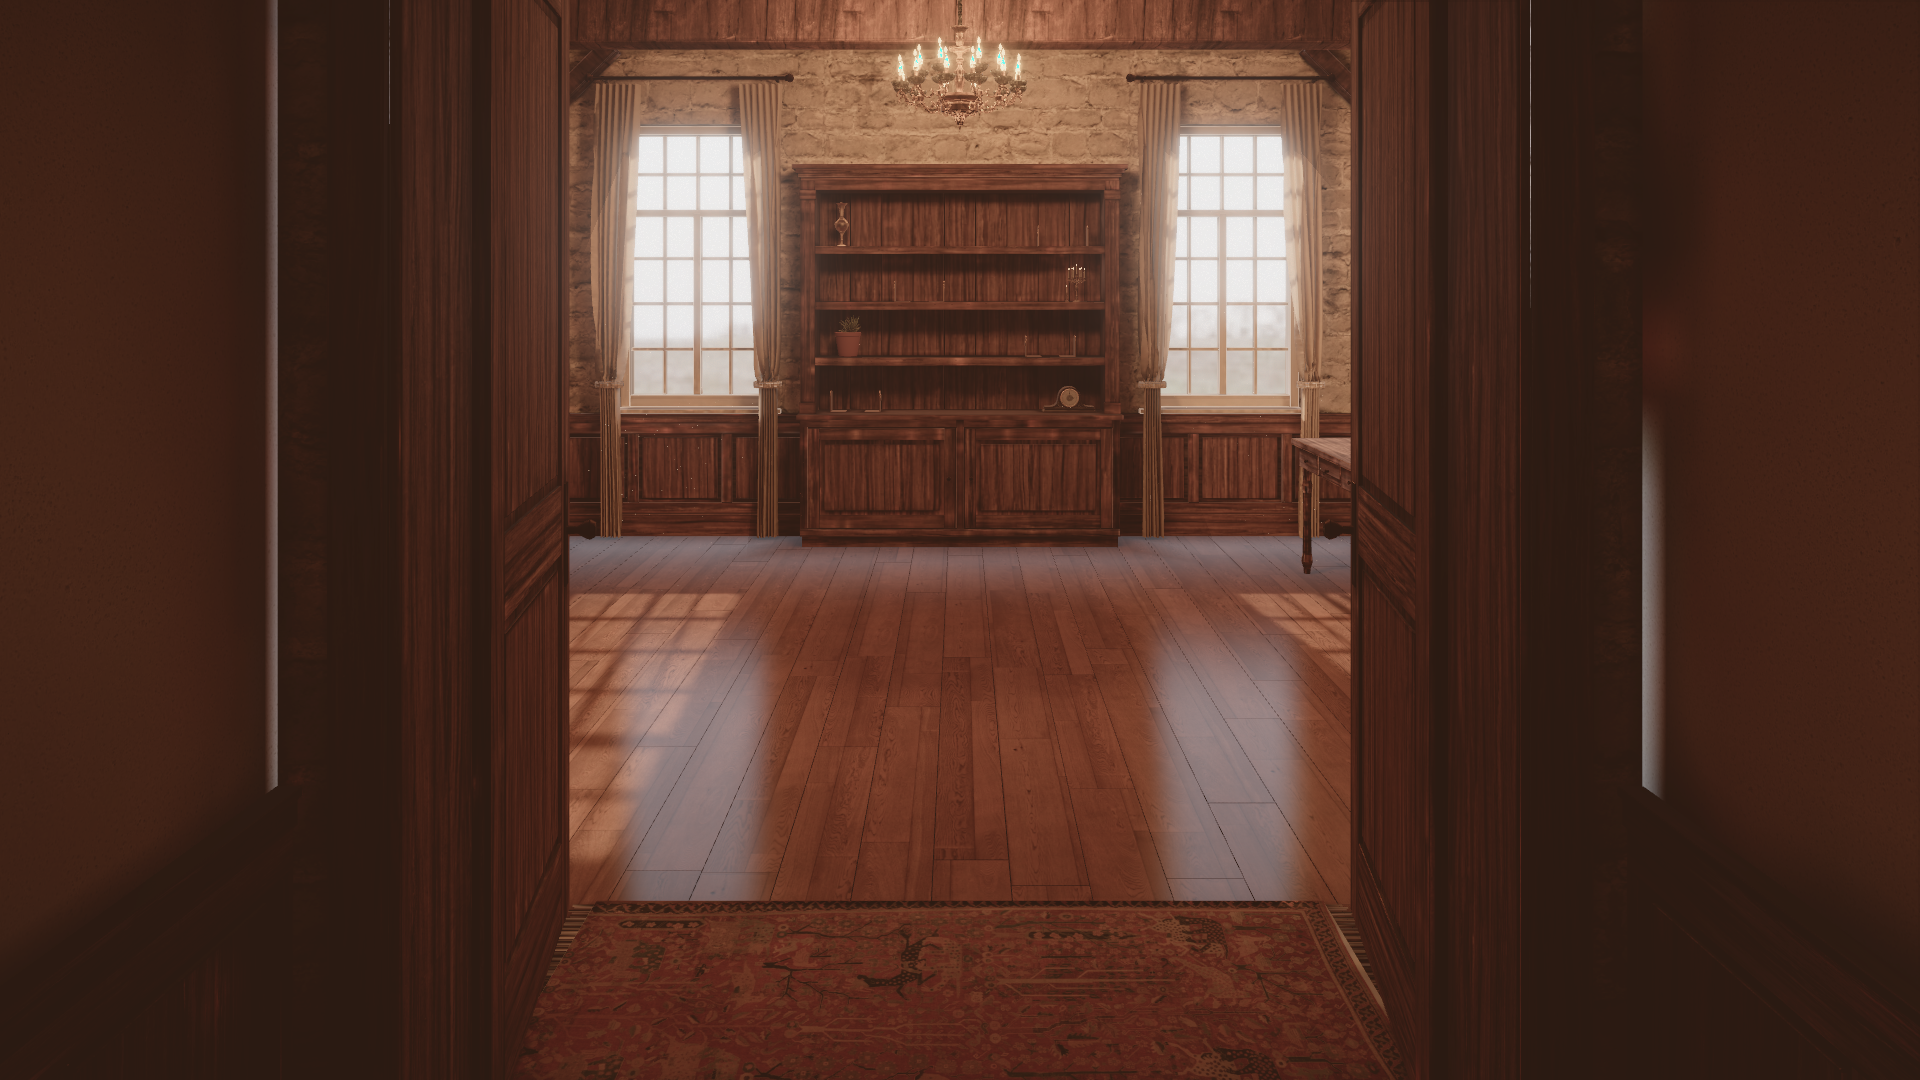
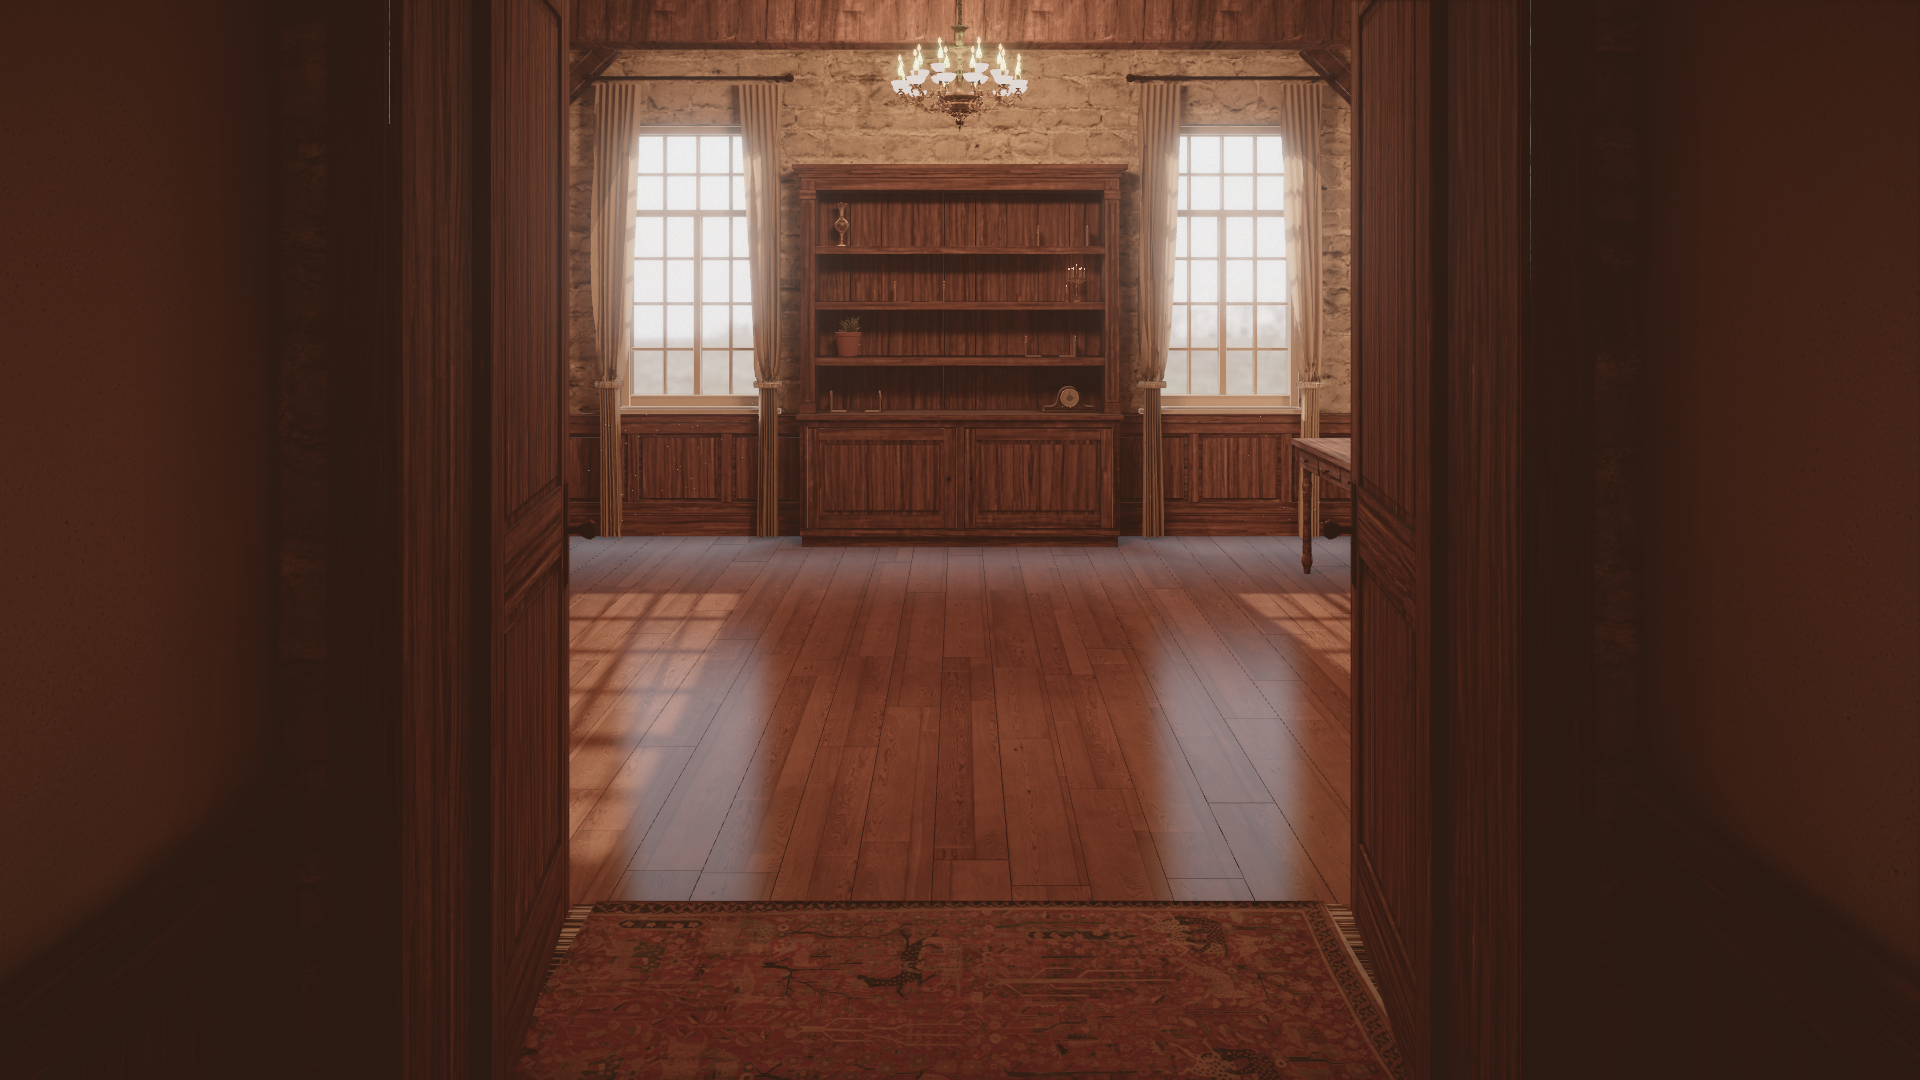
docs: relatório da noite 01, bake final, T7 e T10 concluídas

Changed region(s): [[0.125, 0.0, 0.1562, 0.7333], [0.8438, 0.3972, 0.875, 0.7333], [0.4688, 0.0306, 0.5312, 0.1222]]

diff --git a/scripts/resize-hdr.ts b/scripts/resize-hdr.ts
@@ -1,0 +1,68 @@
+// node --import tsx scripts/resize-hdr.ts <in.hdr> <out.hdr> <width> — box-downsample a Radiance HDR (RGBE).
+import { readFileSync, writeFileSync } from 'node:fs'
+
+const [src, dst, widthArg] = process.argv.slice(2)
+const buf = readFileSync(src)
+let p = 0
+const line = () => {
+  const s = p
+  while (buf[p] !== 0x0a) p++
+  return buf.toString('latin1', s, p++)
+}
+for (let l = line(); l !== ''; l = line()) {
+  // header lines until the blank line
+}
+const [, hy, , wx] = line().split(' ')
+const H = Number(hy)
+const W = Number(wx)
+const img = new Float32Array(W * H * 3)
+for (let y = 0; y < H; y++) {
+  const scan = new Uint8Array(W * 4)
+  if (buf[p] === 2 && buf[p + 1] === 2) {
+    p += 4
+    for (let c = 0; c < 4; c++) {
+      for (let x = 0; x < W; ) {
+        let n = buf[p++]
+        if (n > 128) {
+          n -= 128
+          const v = buf[p++]
+          while (n--) scan[x++ * 4 + c] = v
+        } else while (n--) scan[x++ * 4 + c] = buf[p++]
+      }
+    }
+  } else {
+    scan.set(buf.subarray(p, p + W * 4))
+    p += W * 4
+  }
+  for (let x = 0; x < W; x++) {
+    const e = scan[x * 4 + 3]
+    const f = e ? Math.pow(2, e - 136) : 0
+    for (let c = 0; c < 3; c++) img[(y * W + x) * 3 + c] = scan[x * 4 + c] * f
+  }
+}
+const w = Number(widthArg)
+const h = Math.round((H * w) / W)
+const k = W / w
+const out: number[] = []
+const header = Buffer.from(`#?RADIANCE\nFORMAT=32-bit_rle_rgbe\n\n-Y ${h} +X ${w}\n`, 'latin1')
+for (let y = 0; y < h; y++) {
+  for (let x = 0; x < w; x++) {
+    const acc = [0, 0, 0]
+    let n = 0
+    for (let yy = Math.floor(y * k); yy < Math.floor((y + 1) * k); yy++)
+      for (let xx = Math.floor(x * k); xx < Math.floor((x + 1) * k); xx++) {
+        for (let c = 0; c < 3; c++) acc[c] += img[(yy * W + xx) * 3 + c]
+        n++
+      }
+    const [r, g, b] = acc.map((v) => v / n)
+    const m = Math.max(r, g, b)
+    if (m < 1e-32) out.push(0, 0, 0, 0)
+    else {
+      const e = Math.ceil(Math.log2(m))
+      const s = 256 / Math.pow(2, e)
+      out.push(Math.min(255, Math.floor(r * s)), Math.min(255, Math.floor(g * s)), Math.min(255, Math.floor(b * s)), e + 128)
+    }
+  }
+}
+writeFileSync(dst, Buffer.concat([header, Buffer.from(out)]))
+console.log(`[resize-hdr] ${W}×${H} → ${w}×${h}`)

diff --git a/scripts/optimize.ts b/scripts/optimize.ts
@@ -124,7 +124,7 @@ async function optimizeModel(name: string, ktx: boolean, maxRes = 2048) {
       joinMeshes({ keepNamed: false }),
       prune({ keepAttributes: true, keepIndices: false }),
       weld(),
-      textureCompress({ encoder: sharp, targetFormat: ktx ? undefined : 'webp', resize: [res, res], quality: 82 }),
+      textureCompress({ encoder: sharp, targetFormat: ktx ? undefined : 'webp', resize: [res, res], quality: 72 }),
       meshopt({ encoder: MeshoptEncoder, level: 'medium' }),
     )
     const out = join(PUB, 'models', `${name}${suffix}.glb`)
@@ -166,7 +166,10 @@ function env() {
       continue
     }
     const dst = join(PUB, 'env', f)
-    copyFileSync(src, dst)
+    if (f.endsWith('.hdr')) {
+      // the env only feeds blurred specular (PMREM): 1024×512 is enough and ~4× smaller
+      execFileSync(process.execPath, [join(ROOT, 'node_modules', 'tsx', 'dist', 'cli.mjs'), join(ROOT, 'scripts', 'resize-hdr.ts'), src, dst, '1024'], { stdio: 'inherit' })
+    } else copyFileSync(src, dst)
     sizes[f] = mb(dst)
     console.log(`[optimize] env ${f} ${mb(dst)}`)
   }

diff --git a/src/book/Book.tsx b/src/book/Book.tsx
@@ -108,7 +108,7 @@ export function Book({ book, position = [0, 0, 0], rotation = [0, 0, 0] }: BookP
         { lum, normal, arm },
         wear,
         new Vector2(1 / maxU, 1 / d.coverHeight),
-        book.coverMaterial === 'cloth' ? normalFromMask(clothWeaveHeight(0.11), 1.5) : undefined,
+        book.coverMaterial === 'cloth' ? normalFromMask(clothWeaveHeight(0.11), 0.9) : undefined,
       ),
       endpaper: endpaperMaterial(paper),
       pageEdge: pageEdgeMaterial(edge),

diff --git a/src/book/materials.ts b/src/book/materials.ts
@@ -65,7 +65,8 @@ export function coverMaterial(
     if (weaveNormal) {
       // real bookcloth weave (procedural) instead of the curtain linen's coarse normal
       mat.normalMap = prepare(weaveNormal, tile)
-      mat.normalScale.set(0.9, 0.9)
+      mat.normalMap.anisotropy = 16
+      mat.normalScale.set(0.6, 0.6)
     }
   }
   mat.onBeforeCompile = (shader: WebGLProgramParametersWithUniforms) => {

diff --git a/blender/build_room.py b/blender/build_room.py
@@ -483,10 +483,11 @@ log("door")
 vx = V["width"] / 2
 vz0, vz1, vh = ZF + T, V["zTo"], V["height"]
 mb = MeshBuilder("vestibule_shell")
-mb.box((-vx - 0.2, -0.05, vz0), (-vx, vh + 0.05, vz1 + 0.2), tile=2.0, grain="z", material="plaster")
-mb.box((vx, -0.05, vz0), (vx + 0.2, vh + 0.05, vz1 + 0.2), tile=2.0, grain="z", material="plaster")
+# the shell overlaps the front wall by 5 cm: no seam for light to leak through at the corner
+mb.box((-vx - 0.2, -0.05, vz0 - 0.05), (-vx, vh + 0.05, vz1 + 0.2), tile=2.0, grain="z", material="plaster")
+mb.box((vx, -0.05, vz0 - 0.05), (vx + 0.2, vh + 0.05, vz1 + 0.2), tile=2.0, grain="z", material="plaster")
 mb.box((-vx - 0.2, -0.05, vz1), (vx + 0.2, vh + 0.05, vz1 + 0.2), tile=2.0, grain="x", material="plaster")
-mb.box((-vx - 0.2, vh, vz0), (vx + 0.2, vh + 0.15, vz1 + 0.2), tile=2.0, grain="x", material="plaster")
+mb.box((-vx - 0.2, vh, vz0 - 0.05), (vx + 0.2, vh + 0.15, vz1 + 0.2), tile=2.0, grain="x", material="plaster")
 mb.finish("room", M)
 mb = MeshBuilder("vestibule_wainscot")
 wainscot_run(mb, "x", -vx, +1, vz0, vz1)

diff --git a/blender/denoise.py b/blender/denoise.py
@@ -118,6 +118,9 @@ for atlas, spec in bake_cfg["atlases"].items():
     # small hot spots (flames, the lamp body) may clip: precision in the darks matters more
     peak = float(np.percentile(rgb.max(axis=2)[coverage] if coverage.any() else rgb.max(axis=2), 99.7)) if rgb.size else 1.0
     rng = float(max(1.0, np.ceil(peak * 1.25)))
+    # irradiance next to the flames would waste the 8-bit precision of the darks: clip the hot spots
+    if spec["mode"] == "lightmap":
+        rng = min(rng, 12.0)
     m = np.clip(rgb.max(axis=2) / rng, 1.0 / 255.0, 1.0)
     m = np.ceil(m * 255.0) / 255.0
     enc = np.clip(rgb / (m[:, :, None] * rng), 0.0, 1.0)

diff --git a/docs/noite/relatorio.md b/docs/noite/relatorio.md
@@ -1,12 +1,12 @@
 # Relatório da noite 01 — 15/10/2026
 
-Início: 00:02 (relógio da máquina). Branch `noite-01`, sem push.
+Início: 00:02 · fim: ~02:50 (relógio da máquina). Branch `noite-01`, sem push. Todas as tarefas T0–T10 marcadas `[x]` (T7 com as notas abaixo de 4 explicadas). Verificação final: `npm run check` limpo, `npm run test` 15/15, `npm run e2e` 5/5.
 
 ## Resumo
 
 1. **Pipeline completo e automático:** Blender 5.2 (GPU OptiX, RTX 4060) monta a sala, a estante, os props e as cortinas (simulação de tecido), assa os lightmaps, faz o denoise, exporta e otimiza para o navegador com um comando (`npm run pipeline -- --quality draft|final`, ~3 min em draft).
 2. **Sala no navegador:** lightmaps RGBM, reflexo planar borrado das janelas no piso, quadriculado do sol, feixes e poeira, props em PBR com sombra, AgX. Cerca de 105 draw calls no N0, dentro do orçamento.
-3. **Look dev:** 6 iterações em draft com o `art-reviewer` mais o bake final. Notas da última revisão estão abaixo. **A Fase 0 não está aprovada:** há candidatos prontos para a sua avaliação.
+3. **Look dev:** 6 iterações em draft com o `art-reviewer` mais o bake final. Depois da última revisão, a costura de luz no vestíbulo e o moiré do tecido foram corrigidos num segundo bake final. Notas da última revisão estão abaixo. **A Fase 0 não está aprovada:** há candidatos prontos para a sua avaliação.
 4. **Navegação (Fase 1):** pronta e testada (5/5 e2e). Arrastar, roda, teclado, botões, marcadores no piso, tween de 1,4 s e `prefers-reduced-motion`.
 5. **Livro (Fase 2):** livro paramétrico em cena isolada (`?dev=book`) com 6 livros de teste e 15 testes unitários (geometria e layout da estante). O livro **não** entrou na sala, como manda o runbook.
 
@@ -41,22 +41,49 @@ Screenshots: `npm run shot` (sala) e `npm run shot -- --dev book` (livro).
 - `assets_contact.png`: folha de contato dos assets
 - `blender_N0.png`, `blender_N2.png`: prévias do Cycles
 
-## Última avaliação do art-reviewer
+## Última avaliação do art-reviewer (bake final, S7)
 
-_(preenchido após o bake final)_
+| Critério | S1 | S5 | **Final** |
+|---|---|---|---|
+| 1. Composição (porta enquadrando, estante entre janelas) | 3 | 3 | **3** |
+| 2. Luz com direção legível | 2 | 3 | **3** |
+| 3. Piso reflete as janelas | 3 | 3 | **4** |
+| 4. Estante legível no contraluz | 3 | 3 | **4** |
+| 5. Nada plástico/procedural | 2 | 2 | **3** |
+
+Livro (cena isolada): **3/5** (era 2/5). Proporções 4, couro 3, dourado 3, corte 3, polaroid 2.
+
+Veredito do revisor: **"iterar"**. Dá para mostrar como checkpoint de progresso, mas ainda não como candidato à aprovação da Fase 0. Histórico completo em `docs/look-dev/iteracoes.md`.
 
 ## Orçamento
 
-_(preenchido após o bake final)_
+| Item | Medida |
+|---|---|
+| Draw calls (tier high) | N0 70 · N1 64 · N2 57 · durante o tween ~125 (o reflexo é re-renderizado enquanto a câmera anda) |
+| Download inicial (tier high) | ~27 MB: `room.glb` 12,6 · `props.glb` 2,5 · lightmaps 8,1 (shell 3,5 · props 3,8 · estante 0,8) · env 2,1 · céu 0,35 · JS 1,6 |
+| Tier low | `room.low.glb` 6,2 MB · `props.low.glb` 1,3 MB (texturas 1K), sem reflexo planar/N8AO/sombras |
+| Lightmaps | casca 2048 px (106 px/m) · estante+metais 1024 px (103 px/m) · peças combined 2048 px (337 px/m); RGBM em WebP sem perdas |
+| Texturas | WebP (fallback: `ktx` não instalado) |
+| GPU do screenshot | NVIDIA GeForce RTX 4060 via ANGLE/D3D11 (headless, sem SwiftShader) |
+| Bake final | 512 amostras, OptiX, ~5 min; pipeline final completo ~6 min; draft ~3 min |
 
 ## Decisões que precisam de você
 
-_(preenchido após o bake final)_
+1. **Temperatura geral da imagem.** O revisor insiste que a imagem está alaranjada e pede o preenchimento (céu) neutro-frio, com o quente só nas manchas de sol. Eu já esfriei duas vezes (balanço de branco e céu do bake), mantendo o sol a 3200 K e o lustre a 2400 K da direção de arte. *Recomendo:* mais um passo de esfriamento no céu do bake (#C8D2DC) e na pedra, e você decide pelo `compare_N0.png`.
+2. **Sol mais baixo (15–18°)?** As manchas ficariam mais longas e atravessariam o centro do piso, mais "fim de tarde". Mas a decisão de 14/10 subiu o sol justamente para as manchas não saírem da sala. *Recomendo:* testar 20–22° num draft (3 min).
+3. **Posição da câmera N0.** No frame de aprovação (retrato, proporção da referência), a composição bate. Em 16:9, o vestíbulo escuro e as folhas ocupam muito da tela. Uma revisão anterior pediu para recuar a câmera; a última pede para avançar. *Recomendo:* manter o N0 como está para a aprovação e criar um nó de entrada 16:9 na Fase 1, uns 0,6 m à frente.
+4. **Teto entre as vigas:** reboco claro (spec) ou tábuas de madeira (como parece na referência)?
+5. **KTX-Software:** instalar (`ktx` 4.4+) para texturas KTX2, menores e mais leves na GPU. Hoje o fallback é WebP.
 
 ## Bloqueios e placeholders
 
-_(preenchido após o bake final)_
+- Nenhuma tarefa bloqueada. O Blender e a GPU funcionaram a noite toda.
+- Placeholders (`docs/placeholders.md`): o globo antigo na estante continua ausente (sem textura de mapa antigo em domínio público verificada). A `PlaceholderRoom` só aparece se o pipeline nunca tiver rodado.
+- As fotos de exemplo das polaroids são ilustrações geradas em canvas: a spec proíbe imagens de terceiros, e as fotos reais vêm do usuário.
 
-## Próximos passos sugeridos
+## Próximos passos sugeridos (próxima noite)
 
-_(preenchido após o bake final)_
+1. Aplicar as decisões 1–3 e rodar mais 2 drafts com o `art-reviewer`, depois o final.
+2. Sala: quadro e lampião aceso visíveis no N0 (hoje ficam atrás das folhas da porta); lustre com velas sobre braços de latão (o asset tem cúpulas de vidro claras); abraçadeiras das cortinas mais altas e pano mais franzido; feixes mais visíveis no N0; bases dos apoios de latão com sombra de contato.
+3. Livro: polaroid com brilho de papel fotográfico e sombra de contato; dourado menos acobreado; quinas com desgaste visível; corte das páginas do 640 mais legível.
+4. Fase 3 (depois da aprovação da Fase 0): livros na estante com `shelfLayout.ts` (já testado), seleção e descrição.

diff --git a/docs/look-dev/iteracoes.md b/docs/look-dev/iteracoes.md
@@ -45,3 +45,10 @@ Cada entrada: data/hora, o que mudou, notas por critério (art-reviewer), diverg
 
 ### L3 (livro) — 2026-10-15 ~02:30
 - Capa de tecido com trama de buckram procedural (~0,4 mm por fio) como normal map, no lugar do normal grosso do linho das cortinas. Lâmpadas-vela do lustre como emissores quentes (antes refletiam o céu e saíam azuladas).
+
+### S7 — 2026-10-15 ~02:35 (**bake FINAL**: 512 amostras, casca 2048 px / 106 px/m, props 2048 px / 337 px/m)
+- Também: faixa RGBM dos lightmaps limitada a 12 (precisão nos escuros), env map 1024×512, texturas WebP q72 (download ~27 MB).
+- **art-reviewer:** composição 3 · luz 3 · reflexo **4** · estante **4** · nada plástico **3** (S5: 3/3/3/3/2). Livro **3/5** (era 2). Veredito "iterar"; mostrar ao usuário como checkpoint de progresso, não como candidato à aprovação.
+- Divergências restantes (viraram próximos passos no relatório): dominante vermelho-laranja; vestíbulo escuro e profundo no N0 16:9; fim de tarde pouco legível (céu cinza, feixes fracos no N0); faixa fria no fundo do piso; props/têxteis genéricos (cúpulas do lustre, abraçadeiras baixas, quadro e lampião fora do quadro do N0).
+- Defeitos técnicos corrigidos depois desta revisão (re-bake final): costura de luz nas quinas do vestíbulo; moiré da trama do livro de tecido.
+- Limite de iterações: 6 drafts + final (runbook: até 8). Parei aqui porque os itens restantes de maior impacto (temperatura geral da luz, elevação do sol, posição do N0) contradizem decisões anteriores do próprio revisor ou da direção de arte e precisam da sua escolha — ver "Decisões que precisam de você".

diff --git a/docs/noite/tarefas.md b/docs/noite/tarefas.md
@@ -38,7 +38,7 @@ Início da execução (preencher no T0 com a saída de `date`): `Thu Oct 15 00:0
   - Room com lightmaps, especular só do env nos estáticos, piso refletor, vidro, feixes, poeira, props dinâmicos, pós AgX, tiers, câmera com `lensShiftY`.
   - **Pronto quando:** `npm run shot` gera N0/N1/N2 + `N0_approval.png` + `compare_N0.png` + `stats.json`; draw calls < 150 em todos os nós; sem alerta de preto puro; nenhum erro no console.
 
-- [ ] **T7 — Laço de look dev**
+- [x] **T7 — Laço de look dev** — evidência: 6 iterações draft + bake final (512 amostras) em `docs/look-dev/iteracoes.md`; última nota do `art-reviewer` 3/3/4/4/3 (não atingiu ≥ 4 em todos; o que falta está no relatório, com as decisões que dependem do usuário); `shots/latest/compare_N0.png`
   - Até 8 iterações `draft` + 1 `final` (ver runbook).
   - **Pronto quando:** notas ≥ 4 nos 5 critérios **ou** iterações esgotadas com o que falta registrado; iterações em `docs/look-dev/iteracoes.md`.
 
@@ -52,4 +52,4 @@ Início da execução (preencher no T0 com a saída de `date`): `Thu Oct 15 00:0
 
 ## Encerramento
 
-- [ ] **T10 — Relatório** — `docs/noite/relatorio.md` conforme o runbook, commit final, `git status` limpo.
+- [x] **T10 — Relatório** — `docs/noite/relatorio.md`, commit final, `git status` limpo — `docs/noite/relatorio.md` conforme o runbook, commit final, `git status` limpo.
